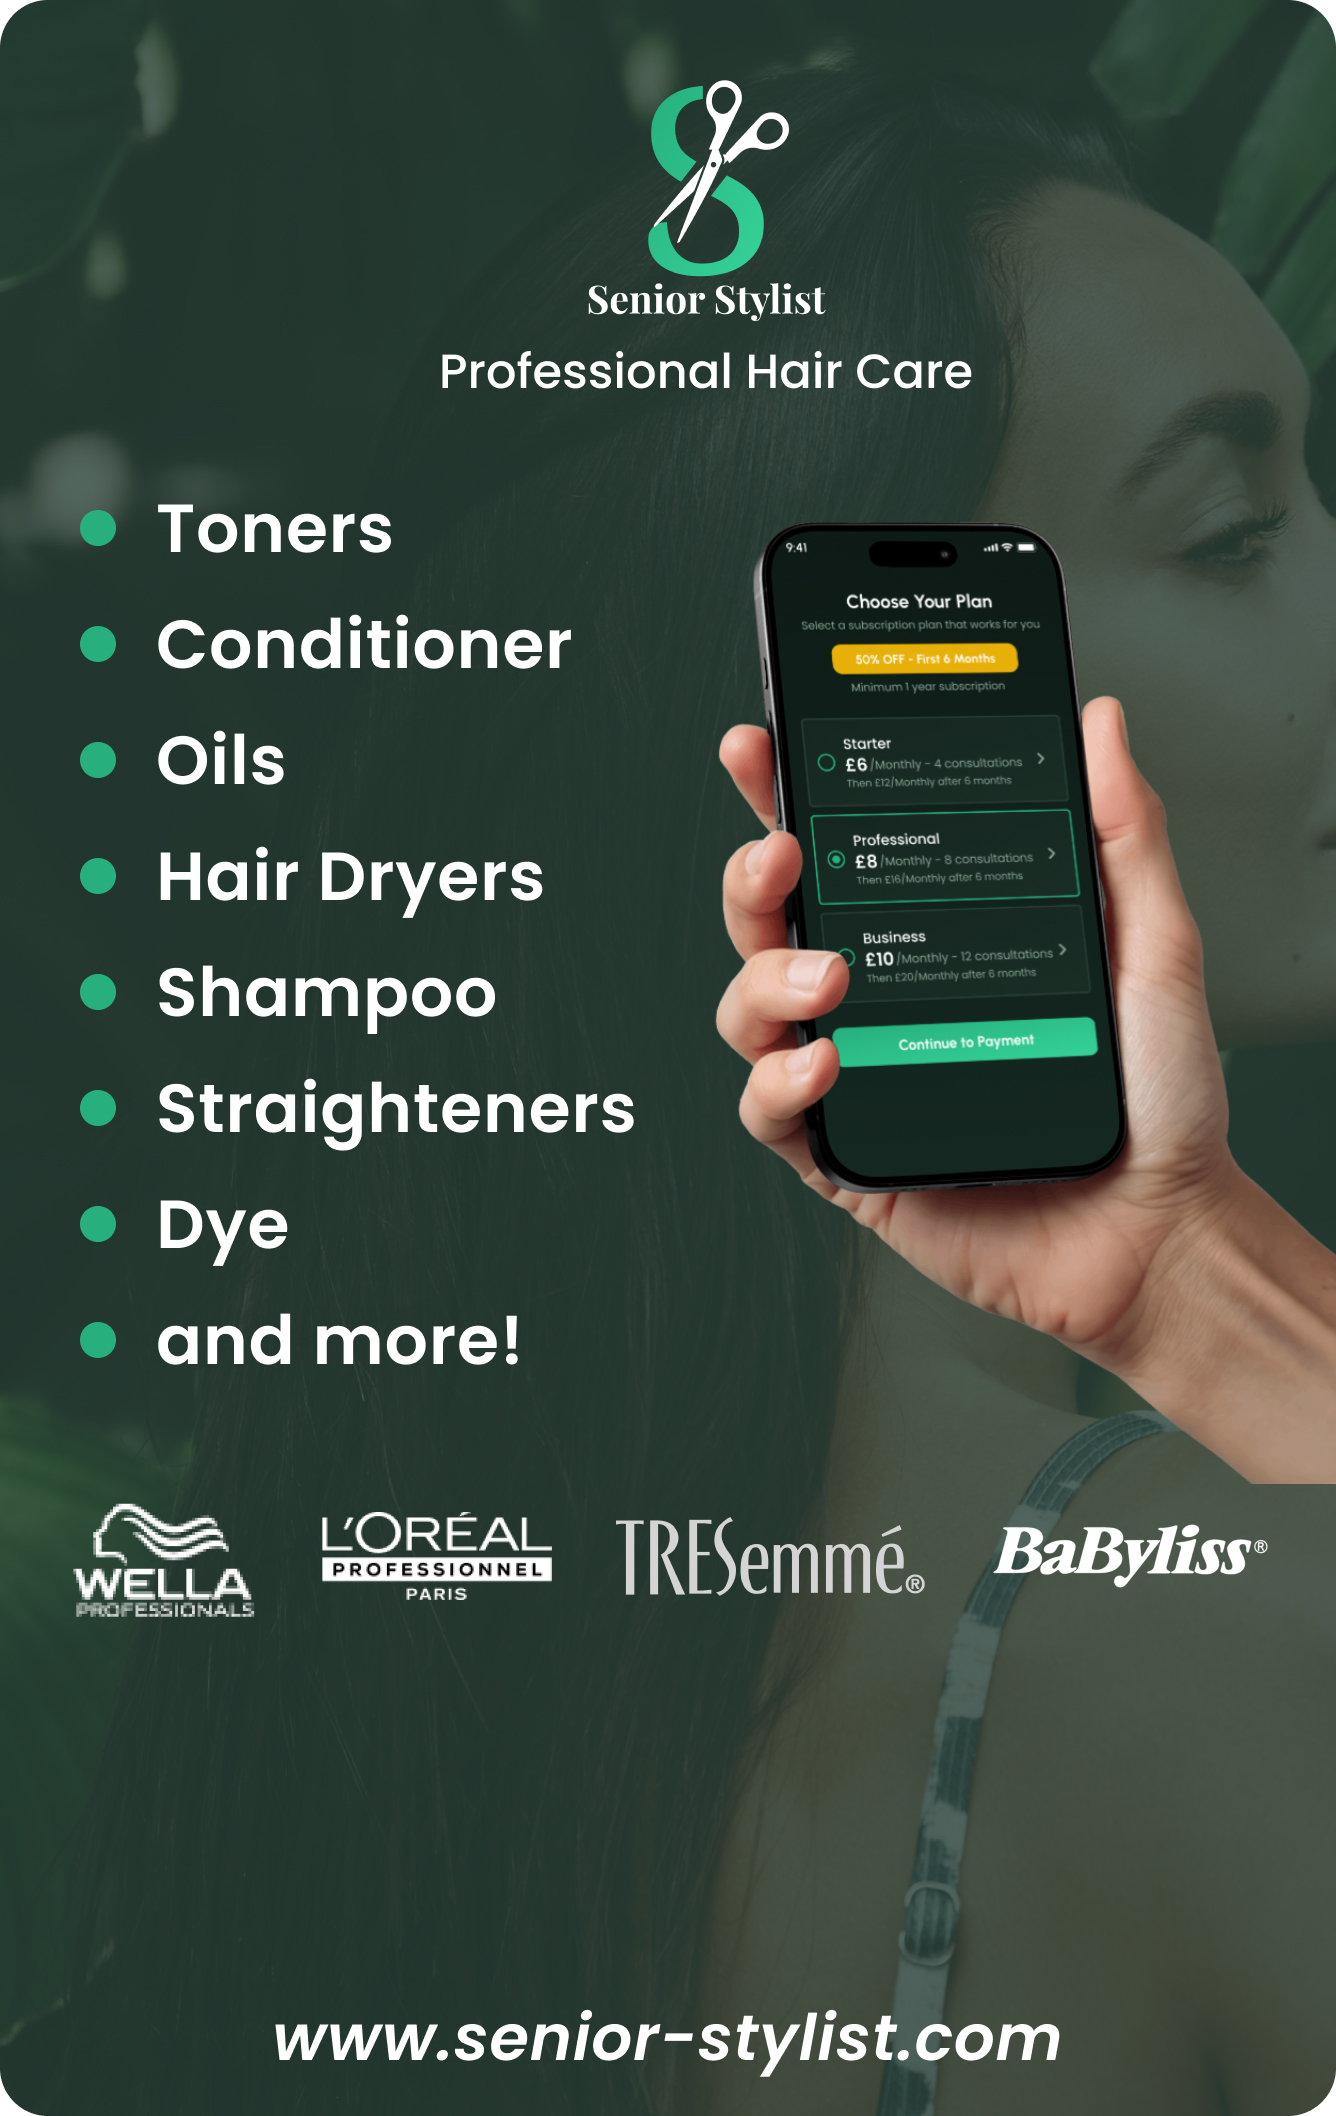
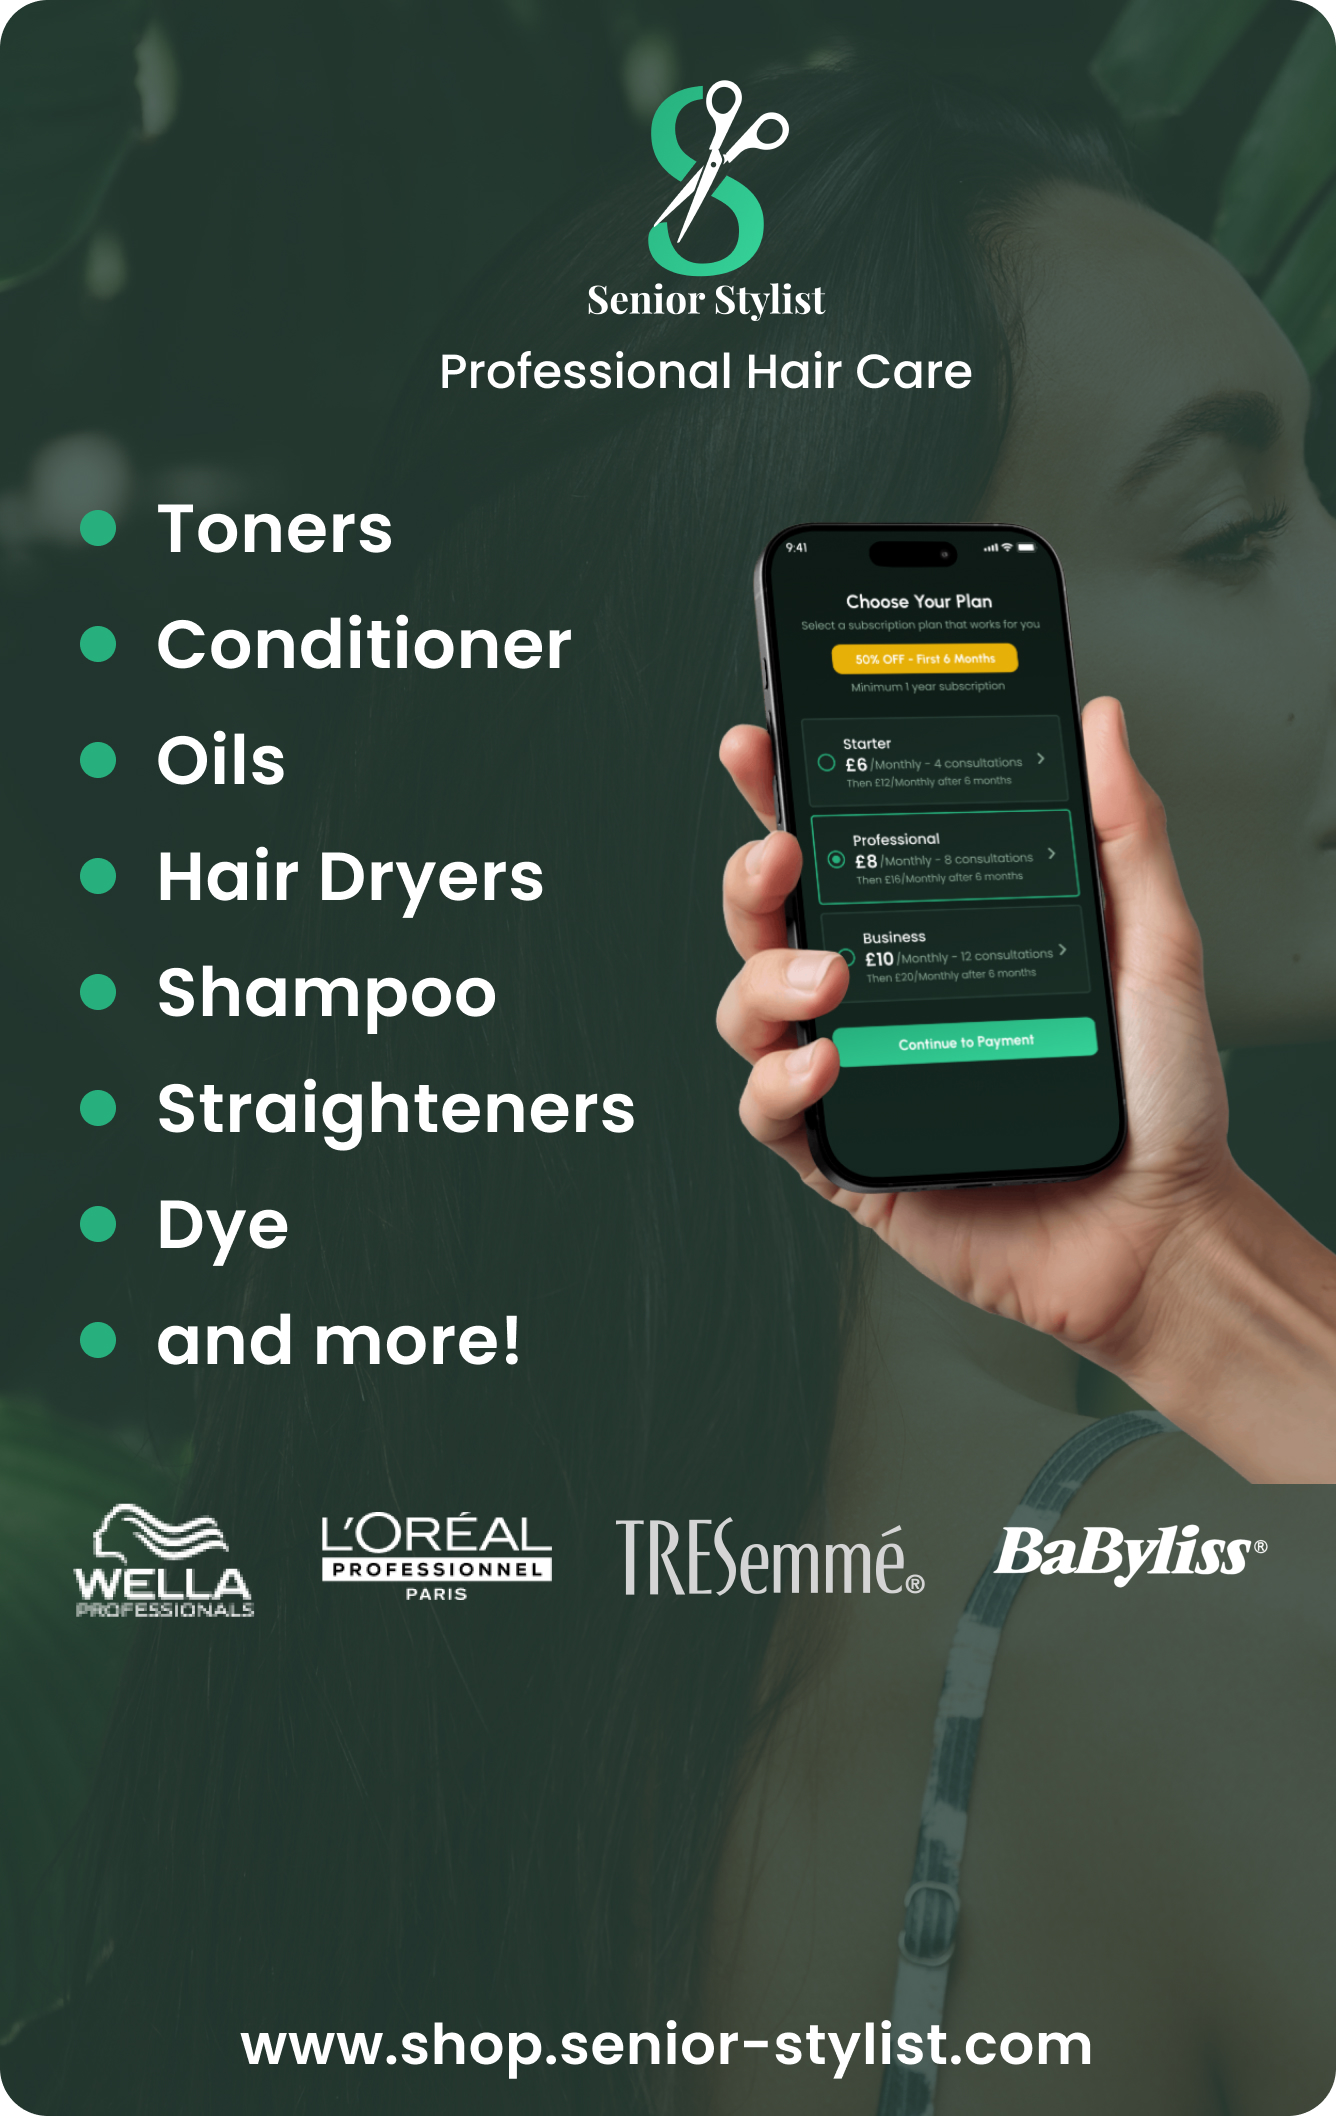
fix: made changes in store login and guest navigation

Changed region(s): [[0.1841, 0.9357, 0.7979, 0.9981]]

diff --git a/src/screens/customer/store/Store.tsx b/src/screens/customer/store/Store.tsx
@@ -18,10 +18,12 @@ const STORE_URL = 'https://shop.senior-stylist.com/';
 const StoreScreen = () => {
   const { isDark } = useTheme();
   const { paddingBottom } = useTabBarSafePadding();
-  const { height: windowHeight } = useWindowDimensions();
+  const { width: windowWidth } = useWindowDimensions();
 
-  // Keep the promo card large, but responsive across devices.
-  const promoCardHeight = Math.min(610, Math.max(560, windowHeight * 0.62));
+  // Width-driven sizing is much more consistent than height-driven sizing across devices.
+  // The screen uses `px-5` (20px) so the card width is windowWidth - 40.
+  const promoCardWidth = Math.max(1, windowWidth - 40);
+  const promoCardHeight = Math.max(360, Math.min(565, Math.round(promoCardWidth * 1.6)));
 
   const handleShopNow = () => {
     Linking.openURL(STORE_URL);
@@ -45,22 +47,35 @@ const StoreScreen = () => {
           </Text>
 
           {/* Promo card */}
-          <View className=" relative">
-            <Image
-              source={require('@/assets/images/discount-card.jpg')}
-              className="w-full h-full mt-6 rounded-3xl"
-              resizeMode="contain"
+          <View className="relative">
+            <View
+              className="w-full mt-3"
               style={{
                 height: promoCardHeight,
+                borderRadius: 24,
+                overflow: 'hidden',
+                // Prevent "white corners" in dark mode when the image doesn't perfectly cover.
+                backgroundColor: isDark ? '#0B1220' : '#FFFFFF',
               }}
-            />
+            >
+              <Image
+                source={require('@/assets/images/discount-card.jpg')}
+                resizeMode="cover"
+                style={{
+                  width: '100%',
+                  height: '100%',
+                  borderRadius: 24,
+                  backgroundColor: isDark ? '#0B1220' : '#FFFFFF',
+                }}
+              />
+            </View>
 
             <TouchableOpacity
               activeOpacity={0.85}
               onPress={handleShopNow}
-              className=" bg-white absolute bottom-16 rounded-[10px] self-center px-10 py-3"
+              className=" bg-[#27B07D] absolute bottom-16 rounded-[5px] self-center px-10 py-3"
             >
-              <Text className="text-base font-urbanist-bold text-[#0F172A]">Shop Now</Text>
+              <Text className="text-base font-poppins-semibold text-white">Shop Now</Text>
             </TouchableOpacity>
           </View>
           {/* Compliance helper text */}

diff --git a/src/screens/Auth/Login.tsx b/src/screens/Auth/Login.tsx
@@ -181,33 +181,19 @@ export default function LoginScreen({ navigation }: any) {
           </View>
 
           <View className="mb-6">
-            <LinearGradient
-              colors={['#27B07D', '#36D399']}
-              start={{ x: 0, y: 1 }}
-              end={{ x: 1, y: 0 }}
-              style={{ borderRadius: 14, padding: 1 }}
-            >
-              <Button
-                text="Continue as Guest"
-                onPress={handleContinueAsGuest}
-                variant="light"
-                className="bg-transparent rounded-[13px]"
-                textClassName="text-white"
-              />
-            </LinearGradient>
+            <Button
+              text="Sign Up"
+              onPress={() => navigation.navigate('Signup', { user: 'customer' })}
+              variant="light"
+              className={`rounded-[14px] ${isDark ? 'bg-[#0E1B17] border-[#273F36]' : 'bg-[#F5F9F7] border-[#DAE7E0]'} border`}
+              textClassName={`${isDark ? 'text-[#ffffff]' : 'text-[#162721]'} text-base font-urbanist-bold`}
+            />
           </View>
 
           {/* Sign Up */}
           <View className="flex-row justify-center">
-            <Text
-              className={` ${
-                isDark ? 'text-textSecondary' : 'text-[#64748B]'
-              } font-normal text-[14px]`}
-            >
-              Don't have an account?{' '}
-            </Text>
-            <Pressable onPress={() => navigation.navigate('Signup', { user: 'customer' })}>
-              <Text className="text-textPrimary">Sign Up</Text>
+            <Pressable onPress={() => handleContinueAsGuest()}>
+              <Text className="text-textPrimary">Continue as Guest</Text>
             </Pressable>
           </View>
 

diff --git a/src/screens/customer/consultation/Consultation.tsx b/src/screens/customer/consultation/Consultation.tsx
@@ -33,12 +33,10 @@ const Consultation = () => {
     return (
       <GradientBackground>
         <View className="flex-1 px-5 pt-6">
-          <Text className={`text-[26px] font-semibold ${isDark ? 'text-white' : 'text-gray-900'}`}>
+          <Text className={`text-2xl font-semibold ${isDark ? 'text-white' : 'text-gray-900'}`}>
             Chats
           </Text>
-          <Text className={`${isDark ? 'text-textSecondary' : 'text-gray-500'} mt-1`}>
-            Manage your styling sessions
-          </Text>
+
           <View className="flex-1 items-center justify-center">
             <Text
               className={`text-base text-center mb-4 ${
@@ -47,7 +45,7 @@ const Consultation = () => {
             >
               Please log in to access your consultations.
             </Text>
-            <Button text="Login" variant="gradient" onPress={exitGuest} className="w-full" />
+            <Button text="Login" variant="gradient" onPress={exitGuest} className="w-4/5" />
           </View>
         </View>
       </GradientBackground>
@@ -74,9 +72,7 @@ const Consultation = () => {
       ) : isFetching && !shouldShowLoading ? (
         <GradientBackground>
           <View className="flex-1 px-5 mb-8 mt-4">
-            <Text
-              className={`text-[24px] font-semibold ${isDark ? 'text-white' : 'text-gray-900'} `}
-            >
+            <Text className={`text-2xl font-semibold ${isDark ? 'text-white' : 'text-gray-900'} `}>
               Chats
             </Text>
             <Text className={` ${isDark ? 'text-textSecondary' : 'text-gray-500'} mt-1`}>

diff --git a/src/navigation/UserTabNavigator.tsx b/src/navigation/UserTabNavigator.tsx
@@ -9,6 +9,7 @@ import ProfileStack from '@/navigation/stacks/Profile';
 import { MainTabParamList } from '@/common/types';
 import { useSafeAreaInsets } from 'react-native-safe-area-context';
 import { useTheme } from '@/contexts/ThemeContext';
+import { useAuth } from '@/contexts/AuthContext';
 import { FindingStylistModalProvider } from '@/contexts/FindingStylistModalContext';
 import FindingStylistModal from '@/common/components/modals/FindingStylistModal';
 
@@ -47,6 +48,7 @@ const createTabBarIcon = (routeName: string) => {
 const UserTabNavigator: React.FC = () => {
   const insets = useSafeAreaInsets();
   const { isDark } = useTheme();
+  const { isGuest } = useAuth();
 
   // lower base bottom to bring bar closer to the bottom
   const baseBottom = Platform.OS === 'ios' ? 4 : 3;
@@ -56,6 +58,7 @@ const UserTabNavigator: React.FC = () => {
     <FindingStylistModalProvider>
       <>
         <Tab.Navigator
+          initialRouteName={isGuest ? 'StoreTab' : 'ConsultationTab'}
           screenOptions={{
             tabBarActiveTintColor: '#27B07D',
             tabBarInactiveTintColor: '#658176',

diff --git a/src/navigation/AppStack.tsx b/src/navigation/AppStack.tsx
@@ -10,7 +10,7 @@ import { useAuth } from '@/contexts/AuthContext';
 const Stack = createNativeStackNavigator<AppStackParamList>();
 
 const AppStack: React.FC = () => {
-  const { user } = useAuth();
+  const { user, isGuest } = useAuth();
   const userRole = user?.role; // or 'customer'
   const [initialRoute, setInitialRoute] = useState<keyof AppStackParamList | undefined>(undefined);
   const [isCheckingSubscription, setIsCheckingSubscription] = useState(true);
@@ -21,6 +21,13 @@ const AppStack: React.FC = () => {
   useEffect(() => {
     const determineInitialRoute = () => {
       console.log('user', user);
+
+      // For guest users, go to UserTabs (which will show StoreTab)
+      if (!user && isGuest) {
+        setInitialRoute('UserTabs');
+        setIsCheckingSubscription(false);
+        return;
+      }
 
       if (!user) {
         setIsCheckingSubscription(false);

diff --git a/src/contexts/AuthContext.tsx b/src/contexts/AuthContext.tsx
@@ -50,7 +50,7 @@ interface AuthContextType {
   logout: () => Promise<void>;
   completeOnbording: () => void;
   continueAsGuest: () => void;
-  exitGuest: () => void;
+  exitGuest: () => Promise<void>;
 }
 
 const AuthContext = createContext<AuthContextType | undefined>(undefined);
@@ -287,8 +287,11 @@ export const AuthProvider: React.FC<{ children: React.ReactNode }> = ({ children
     setIsGuest(true);
   };
 
-  const exitGuest = () => {
+  const exitGuest = async () => {
     setIsGuest(false);
+    // Mark onboarding as completed so user is redirected to Login screen, not Onboarding
+    await storage.setOnbordingCompleted();
+    setIsBordingCompleted(true);
   };
 
   const value: AuthContextType = {

diff --git a/src/screens/customer/consultation/NoConsultant.tsx b/src/screens/customer/consultation/NoConsultant.tsx
@@ -55,7 +55,7 @@ const NoConsultant = () => {
     <GradientBackground className="">
       <View className="flex-1 px-5 pt-6 ">
         {/* Header */}
-        <Text className={`text-[24px] font-semibold ${isDark ? 'text-white' : 'text-gray-900'} `}>
+        <Text className={`text-2xl font-semibold ${isDark ? 'text-white' : 'text-gray-900'} `}>
           Chats
         </Text>
         <Text className={` ${isDark ? 'text-textSecondary' : 'text-gray-500'} mt-1`}>

diff --git a/src/screens/customer/profile/Profile.tsx b/src/screens/customer/profile/Profile.tsx
@@ -78,7 +78,7 @@ const Profile: React.FC<Props> = ({ navigation }) => {
             >
               Please log in to access your profile.
             </Text>
-            <Button text="Login" variant="gradient" onPress={exitGuest} className="w-full" />
+            <Button text="Login" variant="gradient" onPress={exitGuest} className="w-4/5" />
           </View>
         </View>
       </GradientBackground>
